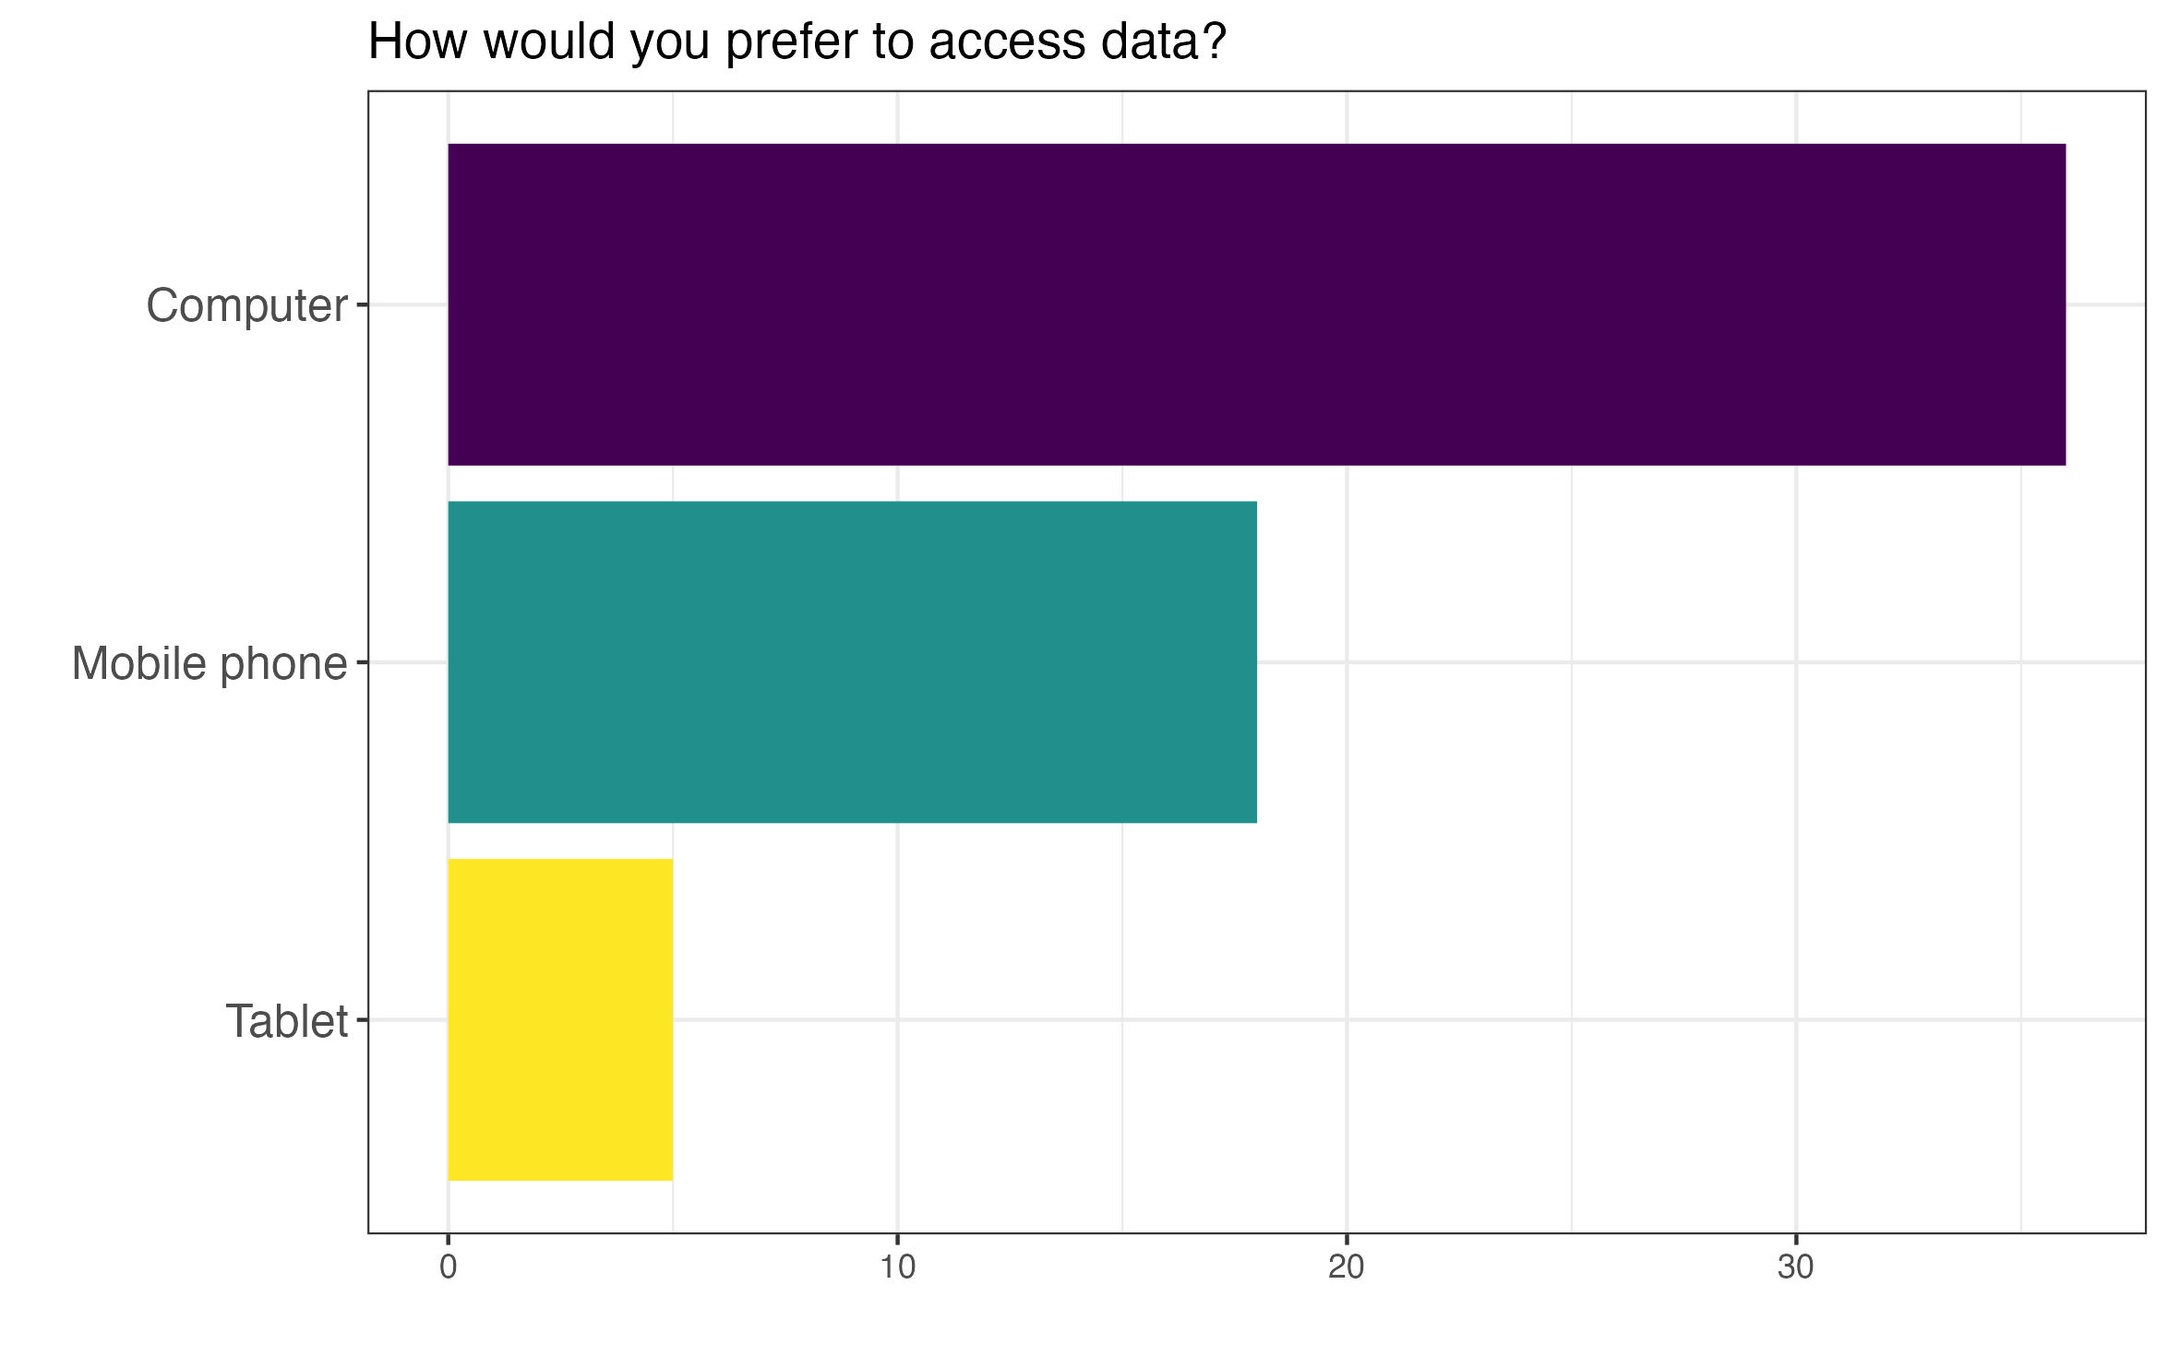
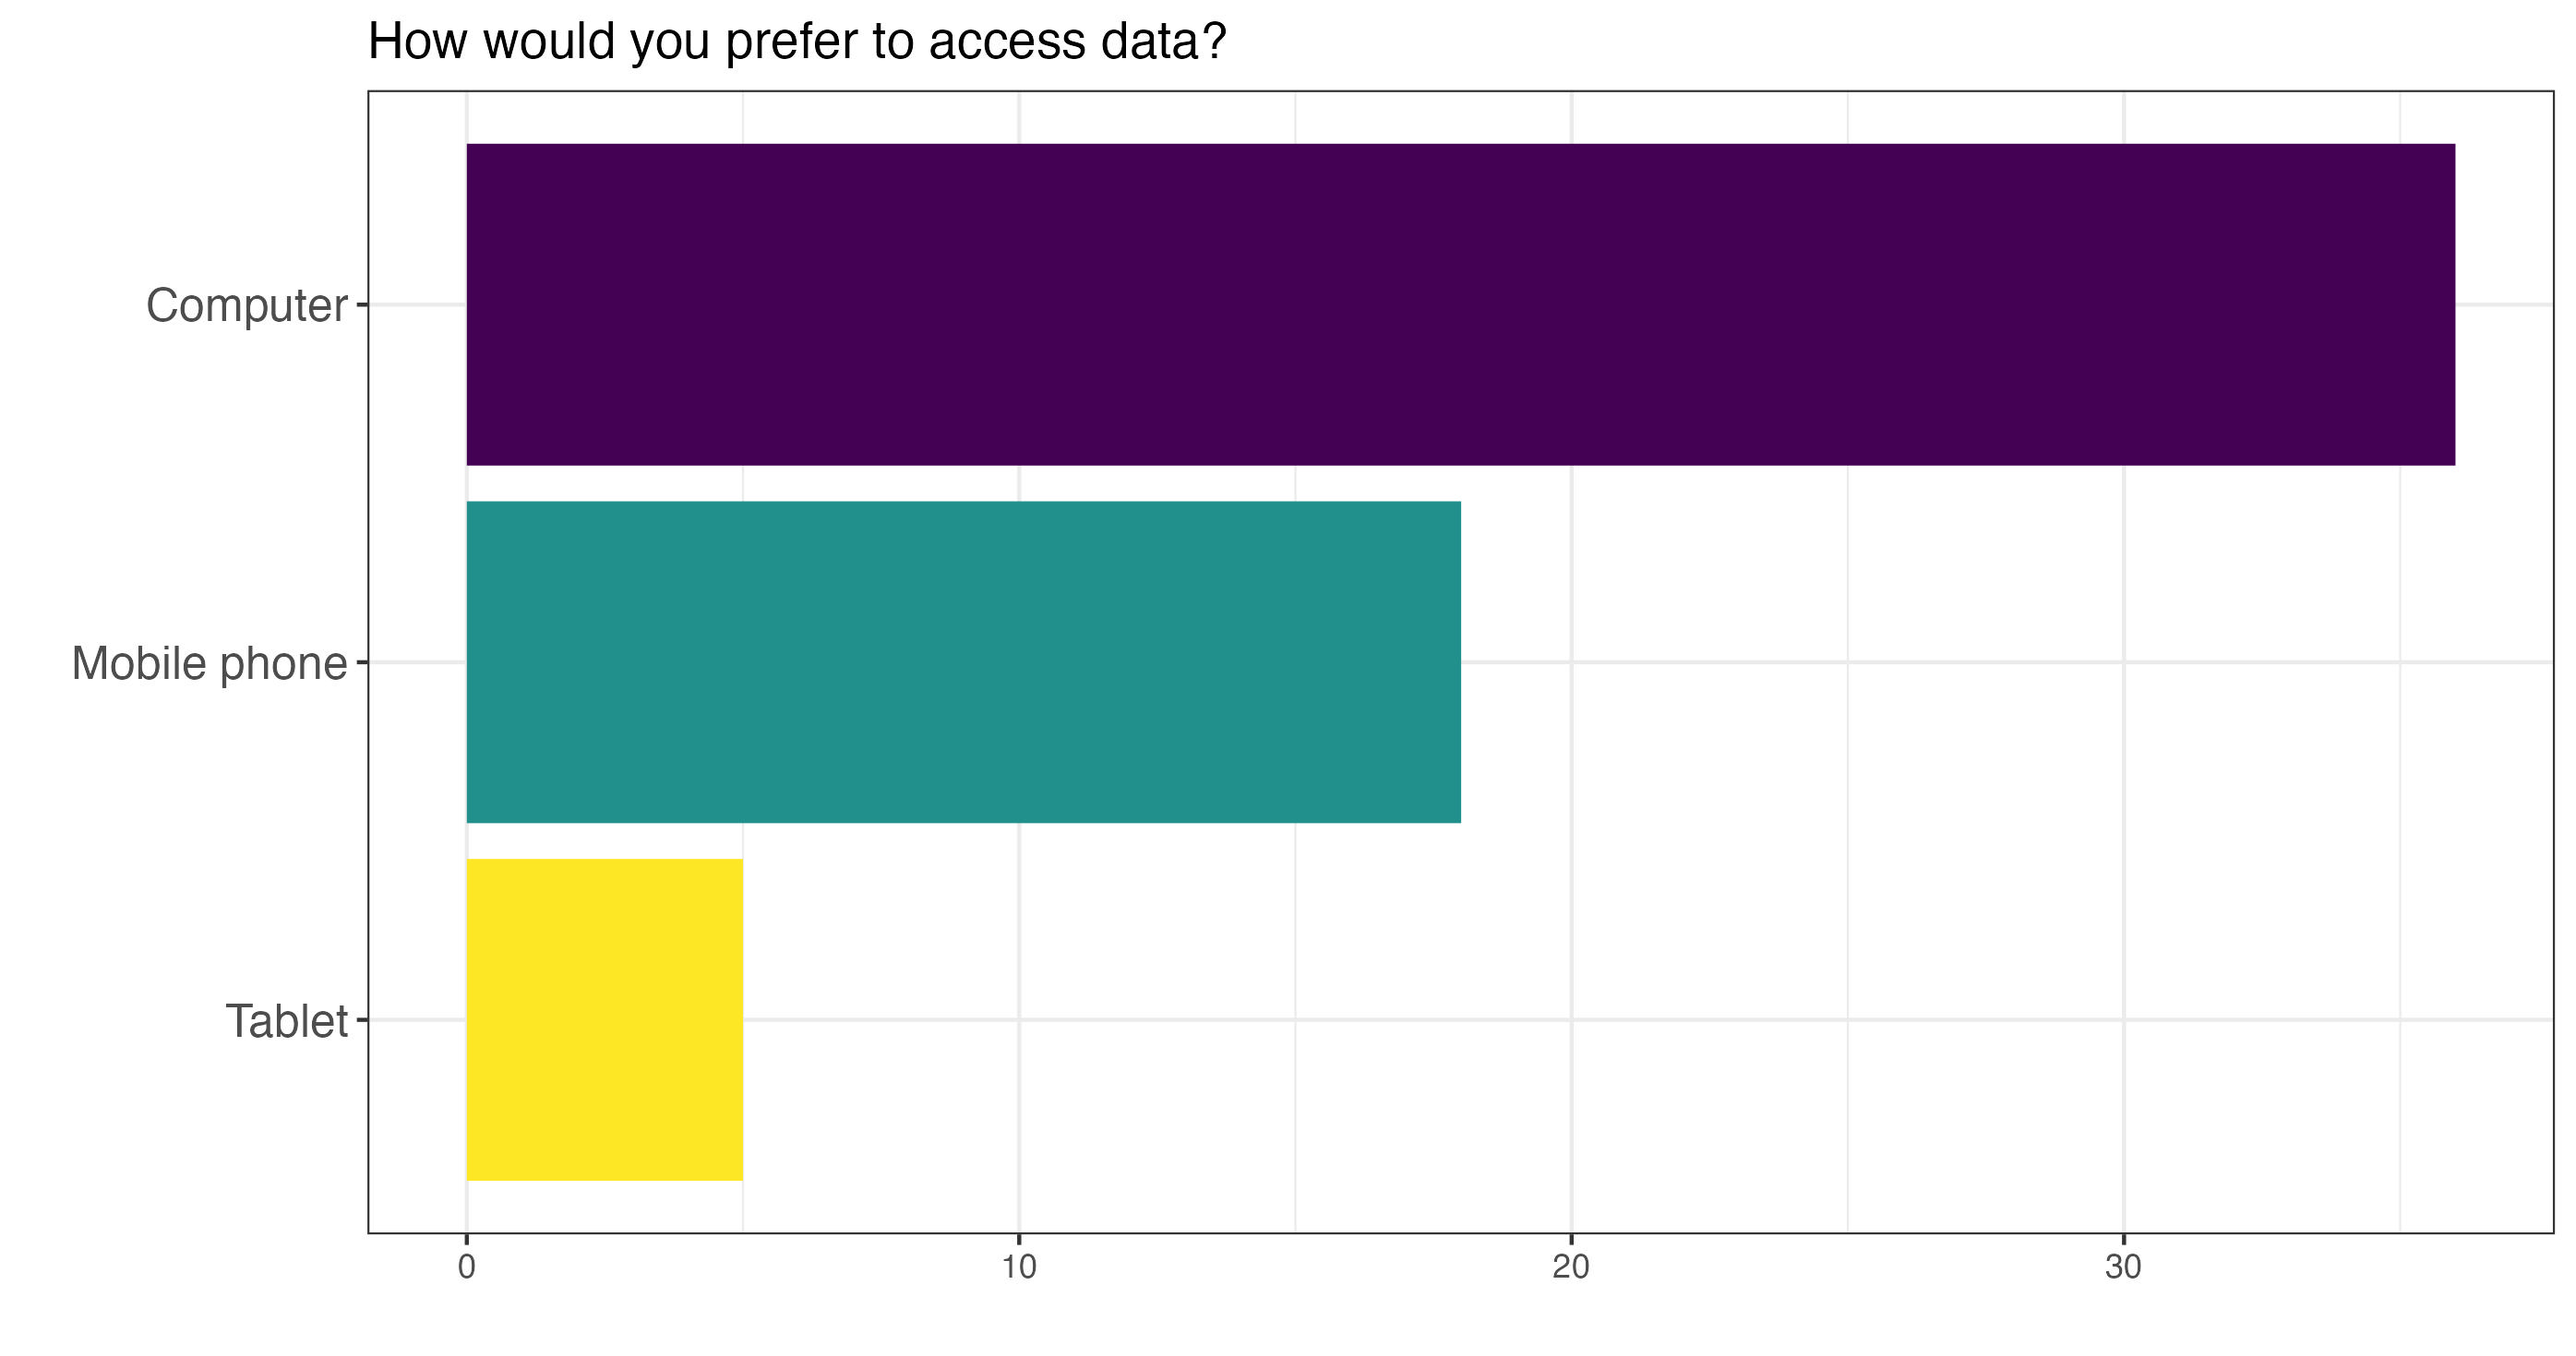
Added code to script 5 to save outputs. Created those outputs. Added a README file.

diff --git a/README.md b/README.md
@@ -1,0 +1,14 @@
+## GTMNERR Science Transfer Project
+**Geraldine Klarenberg, Kristie Perez, Nikki Dix, Nia Morales, Shirley Baker**
+
+The Guana Tolomato Matanzas (GTM) NERR in northeast Florida includes multiple water resources where both physical access and access to data is in demand by a wide variety of user groups across several systems and unique habitat types. The needs of these users vary widely and extend beyond the information currently accessible through the NERRS System-wide Monitoring Program (SWMP) for which data is available through the Centralized Data Management Office. 
+
+This project will develop an open data science product to provide access to non-SWMP ecological data sets and visualizations for the Guana River Estuary (GRE) through an interactive web-based dashboard, expanding engagement to include the community. 
+
+The project was kickstarted with a virtual meeting (Nov 2022), followed by a participatory in-person follow-up meeting (Dec 2022). A survey was distributed to obtain information about users' needs, both in terms of data sets as well as dashboard features.
+
+This repository has R scripts pertaining to the survey. They:
+1. Download responses of potential data users,
+2. Download and reorganize questions and answers to create a unified metadata file,
+3. Deidentify and clean data, creating subsets of question groups, and
+4. Create exploratory and summative figures and tables for each question group.
